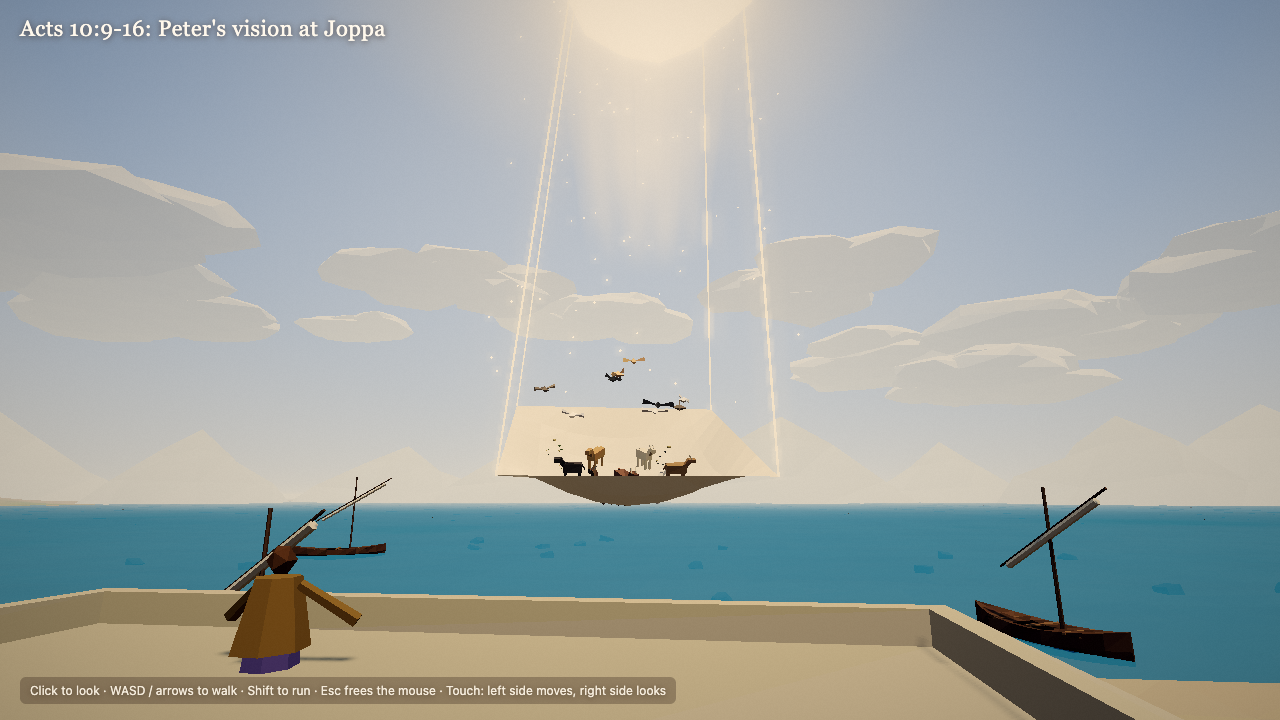
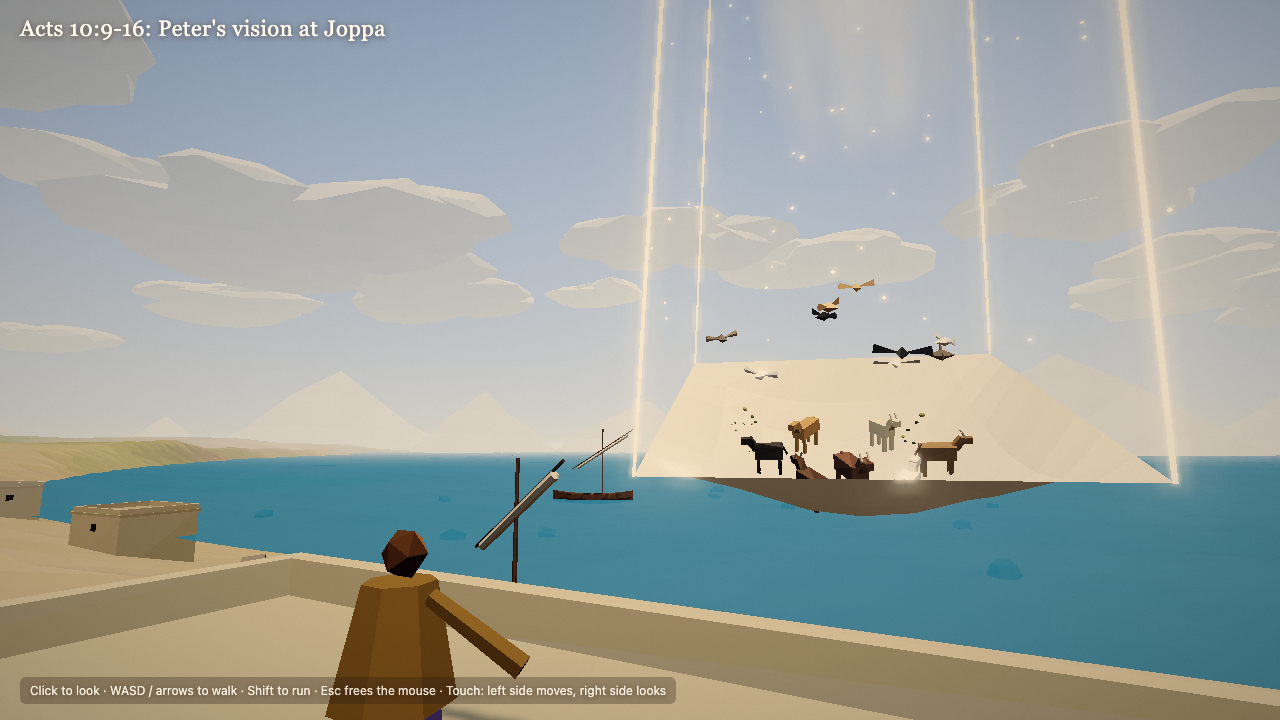
feat: polish lowpoly scenes nt-32 to nt-38

diff --git a/styles/lowpoly/scenes/nt-37.js b/styles/lowpoly/scenes/nt-37.js
@@ -23,31 +23,31 @@ function hull(len, beam, depth, z0, z1, rand) {
   return geo;
 }
 
-function wreckPiece(ctx, { half, x, y, z, rot, tilt, color = '#5a4232' }) {
+function wreckPiece(ctx, { half, x, y, z, rot, tilt, color = '#8e6c4c' }) {
   const { THREE } = ctx;
   hull.THREE = THREE;
   const L = 30, B = 7.5, D = 4.2;
   const b = new Batch(ctx.rand);
   const [z0, z1] = half === 'bow' ? [-1, L / 2] : [-L / 2, -2];
   b.add(hull(L, B, D, z0, z1, ctx.rand), { color, jitter: 0.06 });
-  b.box(B * 0.8, 0.12, (z1 - z0) * 0.8, { position: [0, D / 2 + 0.05, (z0 + z1) / 2 - (half === 'bow' ? 1 : -1)], color: '#7a5a40', jitter: 0.06 });
+  b.box(B * 0.8, 0.12, (z1 - z0) * 0.8, { position: [0, D / 2 + 0.05, (z0 + z1) / 2 - (half === 'bow' ? 1 : -1)], color: '#a88a66', jitter: 0.06 });
   for (let k = 0; k < 6; k++) {
     const zz = half === 'bow' ? z0 + 0.2 : z1 - 0.2;
-    b.box(0.22, D * ctx.rand.range(0.6, 1.3), 0.22, { position: [ctx.rand.range(-B / 2.4, B / 2.4), ctx.rand.range(0, D * 0.4), zz + ctx.rand.range(-0.5, 0.5)], rotation: [ctx.rand.range(-0.5, 0.5), 0, ctx.rand.range(-0.4, 0.4)], color: '#4a3424' });
+    b.box(0.22, D * ctx.rand.range(0.6, 1.3), 0.22, { position: [ctx.rand.range(-B / 2.4, B / 2.4), ctx.rand.range(0, D * 0.4), zz + ctx.rand.range(-0.5, 0.5)], rotation: [ctx.rand.range(-0.5, 0.5), 0, ctx.rand.range(-0.4, 0.4)], color: '#6e5038' });
   }
   if (half === 'bow') {
-    b.add(new THREE.CylinderGeometry(0.22, 0.3, 12, 6), { position: [0, D / 2 + 6, 3], rotation: [0.25, 0, 0.15], color: '#4a3828' });
-    b.add(new THREE.CylinderGeometry(0.14, 0.14, 10, 5), { position: [1.5, D / 2 + 10, 4], rotation: [0.2, 0, 1.2], color: '#4a3828' });
+    b.add(new THREE.CylinderGeometry(0.22, 0.3, 12, 6), { position: [0, D / 2 + 6, 3], rotation: [0.25, 0, 0.15], color: '#7a5e44' });
+    b.add(new THREE.CylinderGeometry(0.14, 0.14, 10, 5), { position: [1.5, D / 2 + 10, 4], rotation: [0.2, 0, 1.2], color: '#7a5e44' });
     const sail = new THREE.BoxGeometry(8, 4.5, 0.1, 4, 3, 1);
     const sp = sail.attributes.position;
     for (let i = 0; i < sp.count; i++) sp.setZ(i, Math.sin(sp.getX(i) * 0.6) * 0.6 + ctx.rand.range(-0.3, 0.3));
     b.add(sail, { position: [1.2, D / 2 + 7.5, 4.3], rotation: [0.25, 0.3, 1.1], color: '#c8b896', jitter: 0.06 });
-    b.add(new THREE.CylinderGeometry(0.16, 0.16, 6, 5), { position: [0, D / 2 + 1.4, L / 2 + 1.8], rotation: [1.0, 0, 0], color: '#4a3828' });
+    b.add(new THREE.CylinderGeometry(0.16, 0.16, 6, 5), { position: [0, D / 2 + 1.4, L / 2 + 1.8], rotation: [1.0, 0, 0], color: '#7a5e44' });
   } else {
-    b.box(5, 2.4, 4, { position: [0, D / 2 + 1.2, z0 + 3.5], rotation: [0, 0, 0.05], color: '#6a4a34' });
-    b.add(new THREE.CylinderGeometry(0.18, 0.24, 5, 6), { position: [0, D / 2 + 2, z1 - 4], rotation: [0.1, 0, 1.3], color: '#4a3828' });
+    b.box(5, 2.4, 4, { position: [0, D / 2 + 1.2, z0 + 3.5], rotation: [0, 0, 0.05], color: '#8a6a4c' });
+    b.add(new THREE.CylinderGeometry(0.18, 0.24, 5, 6), { position: [0, D / 2 + 2, z1 - 4], rotation: [0.1, 0, 1.3], color: '#7a5e44' });
   }
-  const mesh = b.build(new THREE.MeshLambertMaterial({ vertexColors: true }));
+  const mesh = b.build(new THREE.MeshLambertMaterial({ vertexColors: true, emissive: '#3a3026' }));
   mesh.position.set(x, y, z);
   mesh.rotation.set(tilt[0], rot, tilt[1], 'YXZ');
   mesh.castShadow = mesh.receiveShadow = true;
@@ -61,7 +61,7 @@ export default {
   fov: 62,
   exposure: 1.05,
 
-  sun: { direction: [0.4, 0.5, -0.6], color: '#c8ccd4', intensity: 1.3 },
+  sun: { direction: [0.45, 0.55, 0.3], color: '#c8ccd4', intensity: 1.3 },
   light: { sky: '#9aa4b4', ground: '#4a443e', hemi: 1.1 },
   sky: { top: '#5a6474', horizon: '#a8b0b4', ground: '#6a6a66', sunColor: '#d8dce0', glow: 0.3 },
   fog: { color: '#8e989c', near: 40, far: 420 },
@@ -71,7 +71,7 @@ export default {
   grade: { saturation: 0.92, contrast: 1.06, vignette: 0.45, shadowTint: '#2a3448', highlightTint: '#ffe2b8' },
   shadow: { center: [0, 4], radius: 30 },
 
-  player: { start: [3.6, 12.2], yaw: 0.12, pitch: -0.02, eye: 1.65, speed: 4.2 },
+  player: { start: [4.2, 10.0], yaw: 0.16, pitch: 0.0, eye: 1.65, speed: 4.2 },
 
   terrain: {
     size: 1100,
@@ -142,8 +142,8 @@ export default {
     for (let i = 0; i < 5; i++) ctx.solid.add(new THREE.CylinderGeometry(0.03, 0.04, 0.9, 4), { position: [PAUL[0] - 0.5 + i * 0.08, py + 0.05, PAUL[1] + 0.5], rotation: [Math.PI / 2, 0.4 + i * 0.2, 0], color: '#6a5038' });
 
     // The ship aground on the bar, bow stuck fast and stern broken by the waves.
-    wreckPiece(ctx, { half: 'bow', x: 10, y: SEA + 0.3, z: -42, rot: 0.6, tilt: [-0.12, 0.18] });
-    wreckPiece(ctx, { half: 'stern', x: -6, y: SEA - 2.0, z: -52, rot: 0.9, tilt: [0.2, -0.35] });
+    wreckPiece(ctx, { half: 'bow', x: 9, y: SEA + 0.6, z: -36, rot: 0.6, tilt: [-0.12, 0.18] });
+    wreckPiece(ctx, { half: 'stern', x: -8, y: SEA - 1.4, z: -46, rot: 0.9, tilt: [0.2, -0.35] });
     ctx.effects.smoke({ position: [6, SEA, -44], count: 10, height: 5, size: 2.5, color: '#e0e6e8', wind: [0.4, 0.3], seed: 4 });
     ctx.effects.smoke({ position: [-8, SEA, -52], count: 10, height: 4, size: 2.2, color: '#e0e6e8', wind: [0.4, 0.3], seed: 5 });
     for (let i = 0; i < 22; i++) {

diff --git a/styles/lowpoly/scenes/nt-32.js b/styles/lowpoly/scenes/nt-32.js
@@ -3,7 +3,7 @@
 import { road, town, cityWall, horse, figure } from './lib/nt-32-kit.js';
 
 const SAUL = [1.2, -9.4];
-const LIGHT = [0.4, -12];
+const LIGHT = [0.2, -15];
 
 const companions = [
   [-3.2, -6.5], [-4.4, -8.8], [3.8, -6.2], [4.6, -9.4], [-2.4, -4.2], [-1.8, -2.6], [-5.6, -11.5],
@@ -25,7 +25,7 @@ export default {
   grade: { saturation: 1.0, contrast: 1.04, vignette: 0.3, shadowTint: '#4a4060', highlightTint: '#fff2d0' },
   shadow: { center: [0, -6], radius: 50 },
 
-  player: { start: [1.8, 1.5], yaw: 0.0, pitch: 0.16, eye: 1.65, speed: 4.5 },
+  player: { start: [0.7, -3.4], yaw: -0.06, pitch: 0.08, eye: 1.65, speed: 4.5 },
 
   terrain: {
     size: 1100,
@@ -38,7 +38,7 @@ export default {
       { x: 0, z: -280, r: 70, falloff: 60, height: -2 },
     ],
     colors: { ground: '#b8966a', groundAlt: '#a4825a', grass: '#9a9058', high: '#a89070', rock: '#8e7a62' },
-    patches: [{ x: 0, z: -10, r: 9, color: '#f2e2b8', strength: 0.55, rough: 0.3 }],
+    patches: [{ x: 0, z: -10, r: 9, color: '#e6d2a4', strength: 0.4, rough: 0.3 }],
   },
 
   objects: [],
@@ -64,9 +64,9 @@ export default {
   figures: [],
 
   effects: [
-    { type: 'beam', at: LIGHT, height: 320, radiusBottom: 4.5, radiusTop: 34, color: '#fff6e0', opacity: 0.55 },
-    { type: 'beam', at: LIGHT, height: 320, radiusBottom: 2.2, radiusTop: 14, color: '#ffffff', opacity: 0.45 },
-    { type: 'ring', at: LIGHT, lift: 0.06, radius: 4.5, width: 2.5, color: '#fff1c8', opacity: 0.35 },
+    { type: 'beam', at: LIGHT, height: 320, radiusBottom: 3.2, radiusTop: 34, color: '#fff6e0', opacity: 0.55 },
+    { type: 'beam', at: LIGHT, height: 320, radiusBottom: 1.6, radiusTop: 14, color: '#ffffff', opacity: 0.45 },
+    { type: 'ring', at: LIGHT, lift: 0.06, radius: 3.4, width: 2.4, color: '#fff1c8', opacity: 0.4 },
     { type: 'motes', at: LIGHT, radius: 7, height: 50, count: 260, color: '#fffae8' },
   ],
 
@@ -75,15 +75,16 @@ export default {
     town(ctx, { center: [0, -300], radius: 55, count: 45, seed: 326, colors: ['#d8c8a6', '#cbb68e', '#e0d2b2'], height: [3, 8] });
     cityWall(ctx, { points: [[-70, -236], [70, -236], [80, -330], [-80, -330], [-70, -236]], h: 9, color: '#c8b28a', gaps: [{ x: 0, z: -236, r: 5 }] });
 
-    figure(ctx, { x: SAUL[0], z: SAUL[1], face: [LIGHT[0] - 6, SAUL[1] - 1.5], pose: 'prostrate', robe: '#6e2e2a', mantle: '#3a2c24', arms: 'out' });
+    figure(ctx, { x: SAUL[0], z: SAUL[1], face: [LIGHT[0] - 6, SAUL[1] - 1.5], pose: 'prostrate', robe: '#9a2e26', mantle: '#4a5a72', arms: 'out' });
     horse(ctx, { x: -6.5, z: -3.5, rot: 2.6, color: '#7a5638' });
     horse(ctx, { x: 7.2, z: -12.5, rot: -1.2, color: '#4e3828' });
     horse(ctx, { x: 9.5, z: 0.5, rot: 0.8, color: '#9a7a5a' });
     ctx.solid.box(0.6, 0.3, 0.45, { position: [-1.4, ctx.heightAt(-1.4, -8.4) + 0.12, -8.4], rotation: [0.1, 0.5, 0.2], color: '#7a5a3a' });
     ctx.solid.add(new ctx.THREE.CylinderGeometry(0.05, 0.05, 0.4, 6), { position: [1.6, ctx.heightAt(1.6, -7.6) + 0.05, -7.6], rotation: [0, 0.4, Math.PI / 2], color: '#e8dcc0' });
 
+    ctx.effects.ring({ position: [SAUL[0], ctx.heightAt(...SAUL) + 0.05, SAUL[1]], radius: 1.6, width: 1.2, color: '#fff1c8', opacity: 0.3 });
     ctx.effects.halo({ position: [LIGHT[0], 110, LIGHT[1] - 30], size: 110, opacity: 0.6, color: '#fffbea' });
-    const pl = new ctx.THREE.PointLight('#fff4dc', 40, 30, 1.3);
+    const pl = new ctx.THREE.PointLight('#fff4dc', 26, 30, 1.3);
     pl.position.set(LIGHT[0], 8, LIGHT[1]);
     ctx.scene.add(pl);
   },

diff --git a/styles/lowpoly/scenes/lib/nt-32-kit.js b/styles/lowpoly/scenes/lib/nt-32-kit.js
@@ -393,7 +393,8 @@ export function divine(ctx, { x, z, y, face, scale = 1.1, light = 30, range = 18
 }
 
 // Axis-aligned stone room around (x, z) with floor at y. doors: { n|s|e|w: [{ at, width, height }] }, `at` along the wall.
-export function room(ctx, { x, z, y, w, d, h = 3.2, t = 0.5, color = '#7a6e62', floor = '#5e554c', ceiling = '#4e463e', doors = {}, floorTile = 1.2 }) {
+export function room(ctx, { x, z, y, w, d, h = 3.2, t = 0.5, color = '#8a867c', mortar = '#3a3632', floor = '#5e554c', ceiling = '#4e463e', doors = {}, floorTile = 1.2 }) {
+  const stones = rng(Math.round(x * 31 + z * 17 + w * 7) + 101);
   const seg = (side, a, b, yy, hh) => {
     if (b - a < 0.01 || hh <= 0) return;
     const horiz = side === 'n' || side === 's';
@@ -401,10 +402,24 @@ export function room(ctx, { x, z, y, w, d, h = 3.2, t = 0.5, color = '#7a6e62', 
     const px = horiz ? x + mid : x + (side === 'w' ? -w / 2 : w / 2);
     const pz = horiz ? z + (side === 'n' ? -d / 2 : d / 2) : z + mid;
     const bw = horiz ? L : t, bd = horiz ? t : L;
-    const rows = Math.max(1, Math.round(hh / 0.55));
+    ctx.solid.box(horiz ? L : t - 0.06, hh, horiz ? t - 0.06 : L, { position: [px, yy + hh / 2, pz], color: mortar, jitter: 0.02 });
+    const rows = Math.max(1, Math.round(hh / 0.58));
+    const rh = hh / rows;
+    const tone = new THREE.Color();
     for (let r = 0; r < rows; r++) {
-      const rh = hh / rows;
-      ctx.solid.box(bw + (horiz ? 0 : 0.02 * (r % 2)), rh - 0.03, bd + (horiz ? 0.02 * (r % 2) : 0), { position: [px, yy + r * rh + rh / 2, pz], color, jitter: 0.07 });
+      let s = a;
+      const first = (r % 2 ? 0.45 : 0.9) + stones() * 0.3;
+      let len = Math.min(first, b - s);
+      while (s < b - 0.01) {
+        if (b - s - len < 0.3) len = b - s;
+        const c = s + len / 2;
+        const bx = horiz ? x + c : px, bz = horiz ? pz : z + c;
+        const depth = t + (stones() - 0.3) * 0.05;
+        tone.set(color).offsetHSL((stones() - 0.5) * 0.03, (stones() - 0.5) * 0.06, (stones() - 0.5) * 0.16);
+        ctx.solid.box(horiz ? len - 0.05 : depth, rh - 0.05, horiz ? depth : len - 0.05, { position: [bx, yy + r * rh + rh / 2, bz], color: `#${tone.getHexString()}`, jitter: 0.04 });
+        s += len;
+        len = Math.min(0.75 + stones() * 0.6, b - s);
+      }
     }
     ctx.colliders.add({ x: px, z: pz, w: bw, d: bd, bottom: yy, top: yy + hh });
   };

diff --git a/styles/lowpoly/scenes/nt-35.js b/styles/lowpoly/scenes/nt-35.js
@@ -7,7 +7,7 @@ const PAUL = [-0.65, -2.2];
 const SILAS = [0.65, -2.2];
 const KEEPER = [2.8, -3.3];
 
-const wallStone = '#6a6054';
+const wallStone = '#7c7972';
 
 export default {
   title: 'Acts 16:23-34: The Philippian jail',
@@ -23,7 +23,7 @@ export default {
   grade: { saturation: 1.05, contrast: 1.1, vignette: 0.55, shadowTint: '#1a1e40', highlightTint: '#ffe0b0' },
   shadow: { center: [0, 0], radius: 20 },
 
-  player: { start: [-0.4, 2.7], yaw: 0.08, pitch: -0.04, eye: 1.65, speed: 3.5 },
+  player: { start: [0.2, 1.5], yaw: -0.05, pitch: -0.1, eye: 1.65, speed: 3.5 },
 
   terrain: {
     size: 600,
@@ -74,10 +74,10 @@ export default {
         });
       }
     };
-    crack([[-1.8, 3.2, -3.74], [-1.5, 2.5, -3.74], [-2.0, 1.8, -3.74], [-1.6, 1.0, -3.74], [-1.9, 0.2, -3.74]], 'z');
-    crack([[0.6, 3.2, -3.74], [0.9, 2.6, -3.74], [0.7, 2.1, -3.74]], 'z');
-    crack([[4.74, 3.2, -2.6], [4.74, 2.4, -2.2], [4.74, 1.7, -2.8], [4.74, 0.8, -2.4], [4.74, 0, -2.9]], 'x');
-    crack([[-4.74, 3.2, 3.2], [-4.74, 2.2, 2.8], [-4.74, 1.4, 3.3]], 'x');
+    crack([[-1.8, 3.2, -3.69], [-1.5, 2.5, -3.69], [-2.0, 1.8, -3.69], [-1.6, 1.0, -3.69], [-1.9, 0.2, -3.69]], 'z');
+    crack([[0.6, 3.2, -3.69], [0.9, 2.6, -3.69], [0.7, 2.1, -3.69]], 'z');
+    crack([[4.69, 3.2, -2.6], [4.69, 2.4, -2.2], [4.69, 1.7, -2.8], [4.69, 0.8, -2.4], [4.69, 0, -2.9]], 'x');
+    crack([[-4.69, 3.2, 3.2], [-4.69, 2.2, 2.8], [-4.69, 1.4, 3.3]], 'x');
     for (let i = 0; i < 26; i++) {
       const x = ctx.rand.range(-4.4, 4.4), z = ctx.rand.range(-3.4, 3.4);
       if (Math.hypot(x, z - 2.7) < 1.2) continue;
@@ -128,7 +128,7 @@ export default {
 
     // The keeper bursting in with a torch, sword lowered.
     figure(ctx, { x: KEEPER[0], z: KEEPER[1], y: 0, face: [0.5, -1.5], robe: '#7a3a2a', mantle: '#4a4038', arms: 'out' });
-    torch(ctx, { x: KEEPER[0] - 0.7, y: 1.05, z: KEEPER[1] + 0.35, intensity: 16, range: 12 });
+    torch(ctx, { x: KEEPER[0] - 0.7, y: 1.05, z: KEEPER[1] + 0.35, intensity: 13, range: 12, color: '#ffb070' });
     ctx.solid.box(0.05, 0.85, 0.02, { position: [KEEPER[0] + 0.72, 0.62, KEEPER[1] + 0.32], rotation: [0.2, 0, -0.2], color: '#b8bcc4' });
     ctx.solid.box(0.18, 0.04, 0.05, { position: [KEEPER[0] + 0.66, 1.02, KEEPER[1] + 0.28], color: '#6a5030' });
     torch(ctx, { x: 4.6, y: 2.0, z: -2.6, intensity: 6, range: 7 });

diff --git a/styles/lowpoly/scenes/nt-38.js b/styles/lowpoly/scenes/nt-38.js
@@ -4,7 +4,7 @@
 import { divine, figure, lampstand, water } from './lib/nt-32-kit.js';
 
 const CHRIST = [0, -6];
-const JOHN = [0.2, -3.4];
+const JOHN = [0.7, -3.2];
 const SCALE = 1.15;
 
 const candlesticks = Array.from({ length: 7 }, (_, i) => {
@@ -27,7 +27,7 @@ export default {
   grade: { saturation: 1.1, contrast: 1.06, vignette: 0.4, shadowTint: '#2e2a5e', highlightTint: '#ffe8c0' },
   shadow: { center: [0, -4], radius: 30 },
 
-  player: { start: [1.7, 2.6], yaw: 0.14, pitch: 0.1, eye: 1.65, speed: 4 },
+  player: { start: [1.2, 1.6], yaw: 0.1, pitch: 0.0, eye: 1.65, speed: 4 },
 
   terrain: {
     size: 1100,
@@ -81,7 +81,10 @@ export default {
     for (const [x, z] of candlesticks) lampstand(ctx, { x, z, h: 1.8, light: 4, range: 6 });
 
     const jy = ctx.heightAt(...JOHN);
-    figure(ctx, { x: JOHN[0], z: JOHN[1], y: jy, face: [-2.2, -5.4], pose: 'prostrate', robe: '#a08c70', mantle: '#5a4a3a', arms: 'out' });
+    figure(ctx, { x: JOHN[0], z: JOHN[1], y: jy, face: [-3, JOHN[1] - 0.6], pose: 'prostrate', robe: '#c8b08a', mantle: '#7a5a8a', arms: 'out' });
+    const fill = new THREE.PointLight('#ffe8c0', 6, 6, 1.5);
+    fill.position.set(JOHN[0] + 0.4, jy + 1.6, JOHN[1] + 1.4);
+    ctx.scene.add(fill);
     ctx.solid.add(new THREE.CylinderGeometry(0.03, 0.03, 1.6, 4), { position: [1.4, jy + 0.04, -1.6], rotation: [Math.PI / 2, 0.8, 0], color: '#5a4332' });
     ctx.solid.box(0.35, 0.05, 0.25, { position: [-1.2, jy + 0.03, -1.4], rotation: [0, 0.3, 0], color: '#c8b48a' });
   },

diff --git a/styles/lowpoly/scenes/nt-36.js b/styles/lowpoly/scenes/nt-36.js
@@ -72,7 +72,7 @@ export default {
   grade: { saturation: 1.08, contrast: 1.06, vignette: 0.32, shadowTint: '#2e3a5e', highlightTint: '#fff0d0' },
   shadow: { center: [0, -2], radius: 32 },
 
-  player: { start: [1.9, 5.2], yaw: 0.06, pitch: 0.14, eye: 1.65, speed: 4.5 },
+  player: { start: [2.3, 2.6], yaw: 0.22, pitch: 0.08, eye: 1.65, speed: 4.5 },
 
   terrain: {
     size: 1100,
@@ -121,7 +121,7 @@ export default {
     const py = ctx.heightAt(...PAUL);
     ctx.solid.add(new THREE.DodecahedronGeometry(1.4, 0), { position: [PAUL[0], py - 0.2, PAUL[1]], scale: [1.3, 0.55, 1.1], color: '#a29a88', jitter: 0.06 });
     ctx.colliders.add({ x: PAUL[0], z: PAUL[1], w: 2.6, d: 2.2, bottom: py - 1, top: py + 0.5 });
-    figure(ctx, { x: PAUL[0], z: PAUL[1], y: py + 0.5, face: [PAUL[0] + 1, 14], scale: 1.04, robe: '#6a4a34', mantle: '#3e4a5e', arms: 'out' });
+    figure(ctx, { x: PAUL[0], z: PAUL[1], y: py + 0.5, face: [PAUL[0] + 1, 14], scale: 1.08, robe: '#8a5a3a', mantle: '#4a6a9a', arms: 'out' });
 
     const ay = ctx.heightAt(...ALTAR);
     const rot = 0.15;

diff --git a/styles/lowpoly/scenes/nt-33.js b/styles/lowpoly/scenes/nt-33.js
@@ -4,7 +4,7 @@ import { water, house, town, boat, figure, brightCloud, beast, bird, serpent, Ba
 
 const HOUSE = [0, 4];
 const PETER = [-1.4, 1.2];
-const SHEET = [-0.5, 8.5, -15];
+const SHEET = [-1.0, 7.4, -11];
 
 export default {
   title: "Acts 10:9-16: Peter's vision at Joppa",
@@ -22,7 +22,7 @@ export default {
   grade: { saturation: 1.1, contrast: 1.05, vignette: 0.3, shadowTint: '#2e3a5e', highlightTint: '#fff0d8' },
   shadow: { center: [0, 6], radius: 40 },
 
-  player: { start: [2.6, 6.6], yaw: 0.12, pitch: 0.22, eye: 1.65, speed: 4 },
+  player: { start: [1.4, 3.6], yaw: 0.5, pitch: 0.14, eye: 1.65, speed: 4 },
 
   terrain: {
     size: 1100,

diff --git a/styles/lowpoly/scenes/nt-34.js b/styles/lowpoly/scenes/nt-34.js
@@ -9,7 +9,7 @@ const GATE_Z = -14.4;
 const PETER = [-0.7, -1.2];
 const ANGEL = [1.1, -2.2];
 
-const wallStone = '#6e6458';
+const wallStone = '#78756e';
 const moon = [0.35, 0.5, -0.8];
 
 export default {
@@ -27,7 +27,7 @@ export default {
   grade: { saturation: 1.05, contrast: 1.08, vignette: 0.5, shadowTint: '#1a1e40', highlightTint: '#ffe8c0' },
   shadow: { center: [0, -14], radius: 40 },
 
-  player: { start: [-0.9, 2.9], yaw: -0.08, pitch: 0.02, eye: 1.65, speed: 3.5 },
+  player: { start: [1.7, 2.7], yaw: 0.45, pitch: -0.06, eye: 1.65, speed: 3.5 },
 
   terrain: {
     size: 900,
